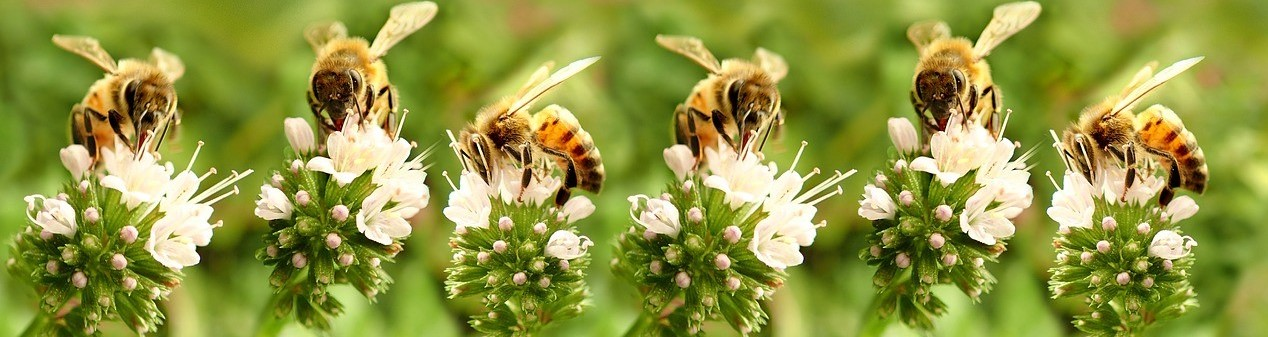
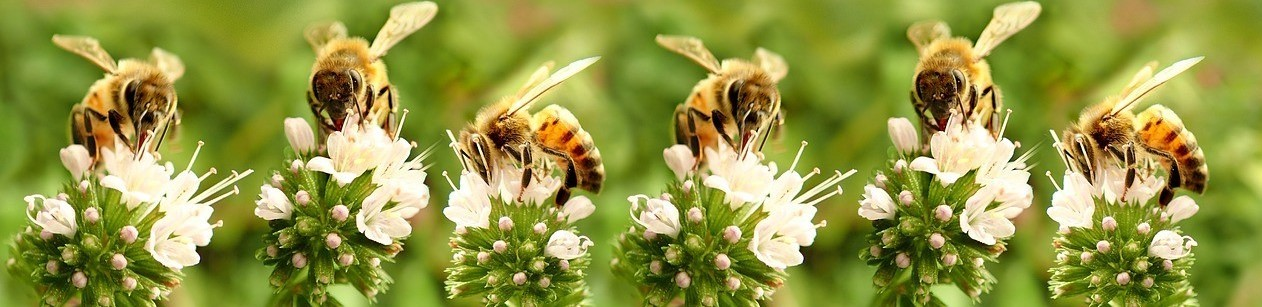
f

diff --git a/courses.html b/courses.html
@@ -93,20 +93,21 @@
             
            <div class="description">
        <div class="row">
-           <div class="col-lg-12 col-md-12 col-sm-12">
+           <div class="col-lg-12 col-md-6 col-sm-6">
+ <br>
                <br>
                <br>
                <br>
-               <br>
-               <img class="img-fluid center-block img-banner" width= 100%;  src="courses/bee7.jpg"  alt="Home Page Montage">
+               <img class="img-fluid center-block img-banner" width= 100%;  src="courses/bee8.jpg"  alt="Home Page Montage">
            </div>
       </div>
       
  <div class="description">
  <div class="row">
-     
+       <div class="col-lg-2 col-md-12 col-sm-12">
+     </div>
      <div class="col-lg-8 col-md-12 col-sm-12">
-            <h1 class="font-weight-bold"  class="align-middle"><br> Introduction To Bee-Keeping</h1>
+            <h1 class="font-weight-bold" ><br> Introduction To Bee-Keeping</h1>
            
             <p> Our one day beekeeping course is ideal for potential new
               beekeepers or beekeepers with less than 2 years’ experience.

diff --git a/css/courses.css b/css/courses.css
@@ -84,9 +84,7 @@ a {
   color: #1D8159;
   cursor: pointer;
 }
-.nav-link {
-  margin-right: 1em !important;
-}
+
 .nav-link:hover {
   color: #ffcd23;
 }
@@ -100,6 +98,7 @@ a {
 
 .description h1 {
   color: #1D8159;
+    text-align:center
 }
 
 .description h2 {
